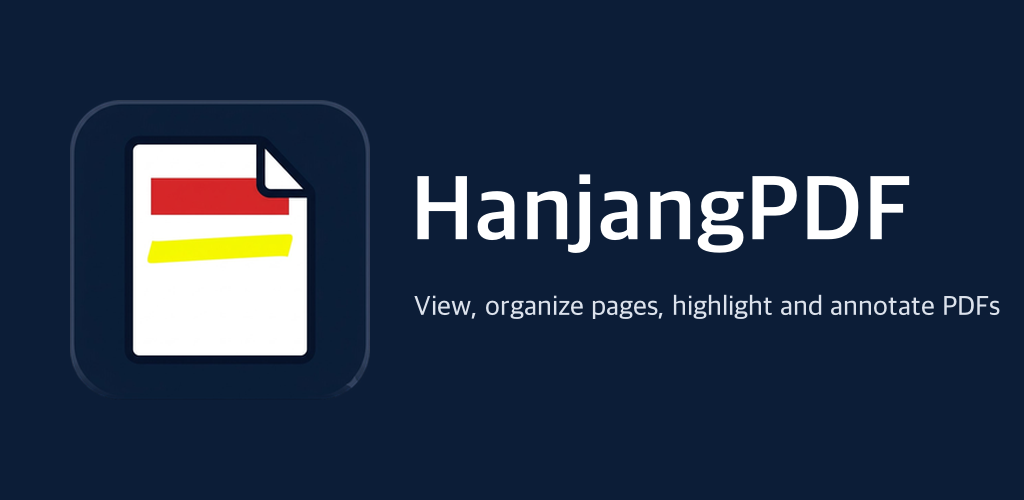
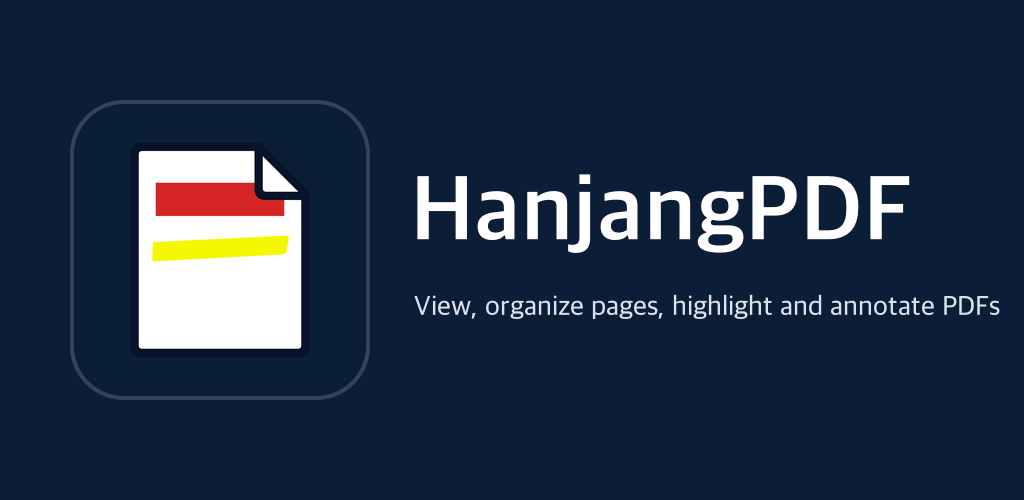
feat: 안드로이드판 8-7 런처 아이콘, 출시 매니페스트 기준 대조
- 적응형 런처 아이콘(배경·문서 벡터·테마용 단색), 스토어 512 아이콘·1024x500 그래픽 같은 벡터로 다시 뽑음
- 업로드 키 파일 경로 ~ 펼치기, 상대 경로 거부
- releaseManifestCheck: release 패키징·서명 작업 전부에 걸고, 병합 매니페스트 전체를
  android/release_manifest.golden.txt와 JSON 정규화로 통째 대조(태그·exported 값·네임스페이스·권한 선언 우회 막음)
- 독립 검토: 판 1~5 반려 뒤 판 6 Codex APPROVE, opus APPROVE, Fable 검증 APPROVE

Changed region(s): [[0.125, 0.27, 0.3125, 0.72], [0.0938, 0.78, 0.3438, 0.81]]

diff --git a/android/README.md b/android/README.md
@@ -32,7 +32,17 @@ cd android
 
 env 파일(저장소 밖, 권한 600)에는 `HANJANG_UPLOAD_STORE_FILE`·`HANJANG_UPLOAD_KEY_ALIAS`·`HANJANG_UPLOAD_STORE_PASSWORD`·
 `HANJANG_UPLOAD_KEY_PASSWORD`를 `이름=값` 줄로 적습니다(같은 이름의 환경 변수로 줘도 됩니다). 일부만 있으면 빌드가 멈춥니다.
-release 빌드는 병합 매니페스트를 검사해(`releaseManifestCheck`) 정하지 않은 권한이나 밖에 열린 구성 요소가 있으면 멈춥니다.
+env 파일 경로와 `HANJANG_UPLOAD_STORE_FILE`은 절대 경로나 `~/`로 시작하는 경로로 적습니다. 값에 따옴표를 두르거나
+줄 앞에 `export`를 붙이지 않습니다(그대로 값·이름으로 읽힙니다).
+release 빌드는 병합 매니페스트를 검사해(`releaseManifestCheck`) 정하지 않은 권한, 정해 둔 것 밖의 구성 요소
+(activity·service·receiver·provider, 밖에 열렸든 아니든), 밖에 열린 구성 요소가 있으면 멈춥니다. 검사는 assemble·bundle뿐
+아니라 `packageRelease`·`packageReleaseBundle`·`signReleaseBundle`·`packageReleaseUniversalApk`에도 걸립니다.
+마지막으로 병합 매니페스트 전체(모든 요소와 속성, 판 번호만 뺌)를 `android/release_manifest.golden.txt`와 글자 그대로 대조해
+다르면 멈춥니다. 라이브러리를 올리거나 매니페스트를 바꿔 기준이 달라지면, 바뀐 줄을 독립 검토받은 뒤
+`android/app/build/manifestCheck/release.canon.txt`(검사 때 새로 씀)로 기준 파일을 바꿉니다(첫 두 줄 # 설명은 남김).
+AGP를 올릴 때는 `./gradlew :app:tasks --all`과 `--dry-run`으로 release 산출물 작업이 모두 이 검사를 거치는지 다시 봅니다.
+
+런처 아이콘은 `app/src/main/res/mipmap-anydpi-v26/`(적응형: 남색 바탕 + 문서 벡터 + 테마 아이콘용 monochrome)입니다.
 
 - Gradle 9.8.2(래퍼가 받음), Android Gradle Plugin 9.4.0, Kotlin·Compose(BOM 2025.10.00)
 - minSdk 26(안드로이드 8.0), targetSdk 36
